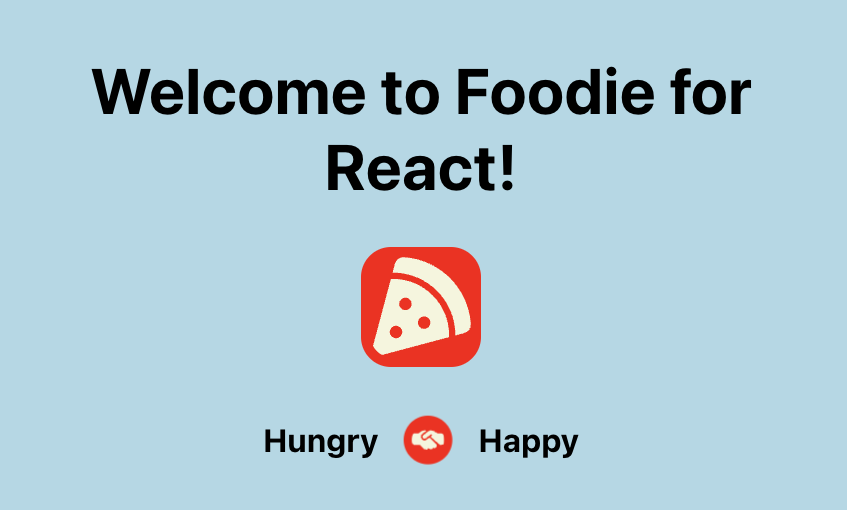
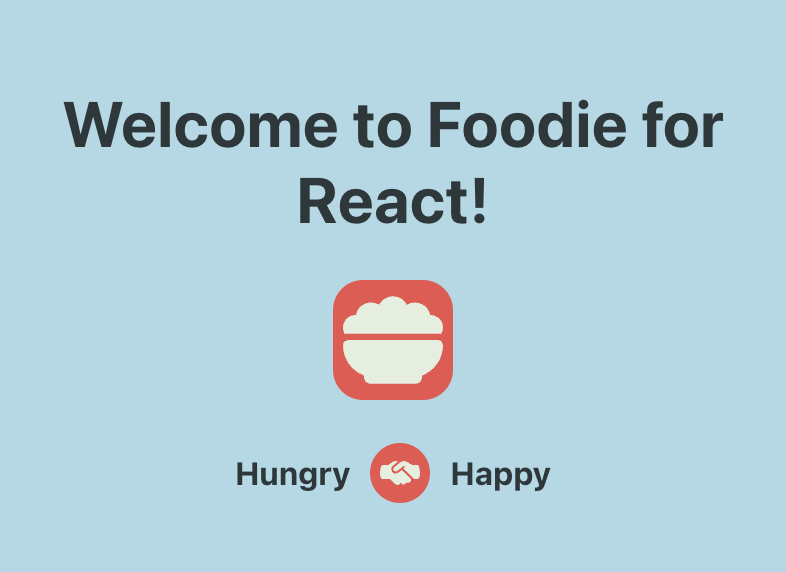
updated main image

Changed region(s): [[0.0611, 0.1176, 0.916, 0.4118], [0.2748, 0.7647, 0.7023, 0.9118], [0.3969, 0.4706, 0.5802, 0.7353]]

diff --git a/CHANGELOG.md b/CHANGELOG.md
@@ -2,7 +2,7 @@
 
 This file tracks released versions with the changes made to this project.
 
-## Version 1.0.2
+## Version 1.0.3
 
 ### Added
 

diff --git a/README.md b/README.md
@@ -1,4 +1,4 @@
-# foodie-react v1.0.2
+# foodie-react v1.0.3
 
 ![Foodie React Main](./assets/main.png)
 
